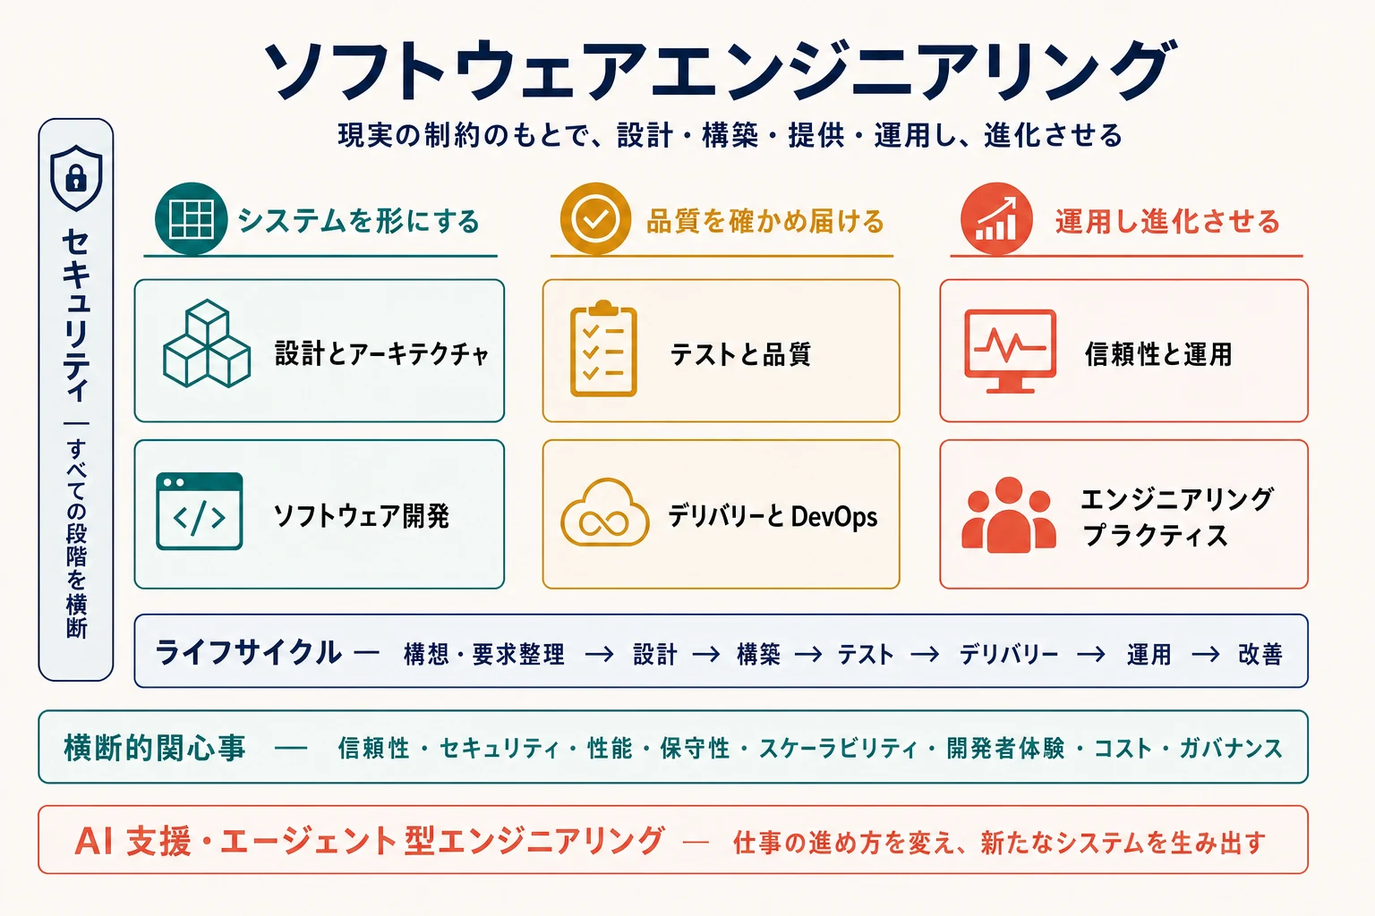
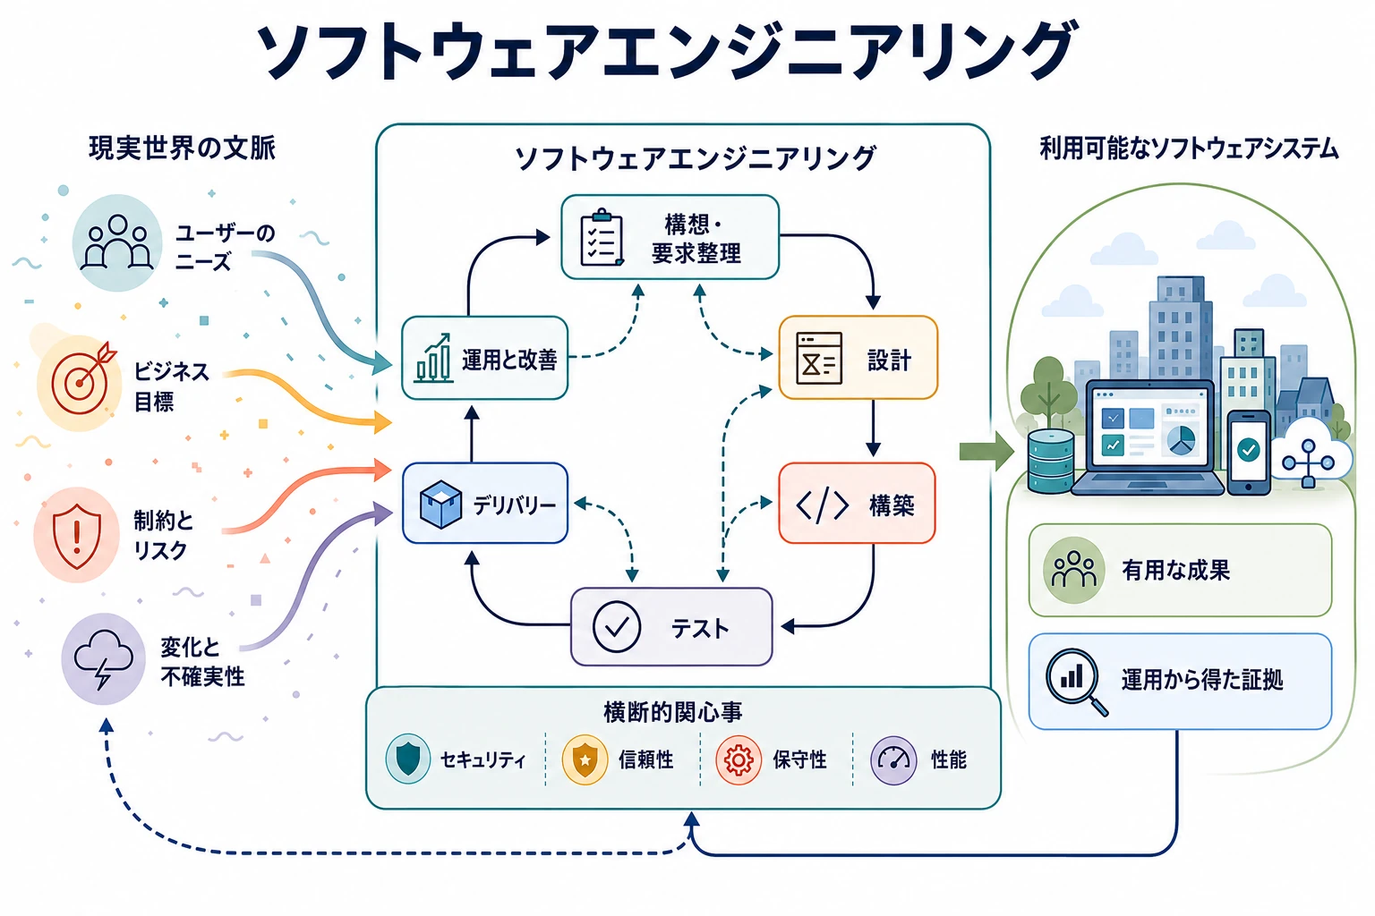
Revise software engineering hub cover

Changed region(s): [[0.0, 0.0, 1.0, 0.9375]]

diff --git a/prompts/docs/swe/imagen.ja/00-software-engineering-landscape.ja.md b/prompts/docs/swe/imagen.ja/00-software-engineering-landscape.ja.md
@@ -1,0 +1,144 @@
+---
+type: image
+path: /docs/swe
+description: 現実世界の文脈に対する反復的なエンジニアリングの応答として、この分野を示すソフトウェアエンジニアリングハブの日本語版カバー画像。
+---
+
+# ソフトウェアエンジニアリングハブの日本語版カバー画像
+
+英語版 `content/docs/swe/software-engineering-landscape.webp` を参照画像として、日本語版の高品質な技術インフォグラフィックを作成してください。英語版の意味構造、要素配置、視覚的階層、配色、アイコン、接続関係を維持し、画像内の英語ラベルだけを指定された日本語へ置き換えます。
+
+## 1. 伝達目標
+
+ソフトウェアエンジニアリングが、不完全で変化し続ける現実世界の文脈を、有用なソフトウェアシステムへ変える営みであることを一目で伝えてください。外部のニーズと制約がエンジニアリングを方向付け、構造化された反復的な活動によってソフトウェアが作られ、利用中のシステムから得られる証拠がエンジニアリングと文脈理解の改善へ戻る関係を示します。
+
+次の三つを視覚的に明確に区別してください。
+
+**外部の力と文脈 → エンジニアリングによる応答 → 利用可能なソフトウェアシステム**
+
+横断的関心事はエンジニアリング全体に適用します。セキュリティは横断的関心事にだけ配置し、重複させないでください。
+
+## 2. 概念モデル
+
+左から右へ、異なる幅を持つ三つの領域を配置してください。
+
+1. **現実世界の文脈** — 意思決定を動機付け、制約する外部環境
+2. **ソフトウェアエンジニアリング** — 接続された活動とフィードバックループを含む最大の中心領域
+3. **利用可能なソフトウェアシステム** — 現実の環境で使われる成果
+
+左から右への強い流れに加え、右側から主にエンジニアリング領域へ戻る、控えめなフィードバック経路を一つ設けてください。その経路は現実世界そのものをエンジニアリングが変更することではなく、実際の利用から得た情報によってニーズ、制約、機会に対する理解を更新することを示します。
+
+## 3. 左側：現実世界の文脈
+
+主ラベルには **現実世界の文脈** を使用し、次の四つの力をコンパクトに配置してください。
+
+- **ユーザーのニーズ**
+- **ビジネス目標**
+- **制約とリスク**
+- **変化と不確実性**
+
+これらはライフサイクルの段階やエンジニアリング活動ではなく、外部環境から到来する力です。**現実世界の文脈** を長方形のコンテナに入れないでください。単純で不規則な形や複数の流入経路を持つ開かれた場として示し、構造化された中央領域へ収束させます。
+
+## 4. ソフトウェアエンジニアリングの中心領域
+
+**ソフトウェアエンジニアリング** を最も大きな中央の囲みとして配置し、内部に次の活動を示してください。
+
+- **構想・要求整理**
+- **設計**
+- **構築**
+- **テスト**
+- **デリバリー**
+- **運用と改善**
+
+活動は認識しやすいライフサイクル順に並べながら、戻り方向の接続、重なり合う関係、または緩やかな曲線構成を使い、一方向のウォーターフォールに見えないようにしてください。要求は見直され、テストは設計と構築へ情報を返し、運用から得られた証拠は改善と要求の再整理につながります。
+
+## 5. 横断的関心事
+
+中央のエンジニアリング領域全体に適用される単一の帯、レール、または包み込む枠を設け、**横断的関心事** と表示してください。含めるラベルは次の四つだけです。
+
+- **セキュリティ**
+- **信頼性**
+- **保守性**
+- **性能**
+
+この帯は、すべてのエンジニアリング活動へ視覚的に重なるか、それらを包み込む必要があります。活動の前後に独立して置かないでください。これはライフサイクルの別段階ではなく、作業全体に継続して適用される観点です。セキュリティをほかの場所へ重複して配置しないでください。
+
+## 6. 出力と成果
+
+右側のラベルには **利用可能なソフトウェアシステム** を使用し、成功バッジではなく、現実の環境で稼働する一つのまとまりあるシステムまたはサービス群を描いてください。次の二つを短い注釈として加えます。
+
+- **有用な成果**
+- **運用から得た証拠**
+
+この二つは同じ **利用可能なソフトウェアシステム** 領域内の注釈として扱い、別々の下流段階や別々の出力システムに見せないでください。**運用から得た証拠** は主に **ソフトウェアエンジニアリング** へ戻し、さらに **現実世界の文脈** へ細く続けることで、実際の利用がニーズ、制約、機会に対する理解を明らかにし、更新できることを示します。
+
+## 7. 構図と視覚的階層
+
+- 1536 × 1024 ピクセル、3:2 の横長キャンバスを使用する
+- 上部に **ソフトウェアエンジニアリング**、その下に図を配置する
+- 中央領域に図のおよそ半分の幅を与え、左右は補助領域として小さくする
+- 三領域を結ぶ強い順方向の流れと、控えめなフィードバック経路を一つ使う
+- 左側は囲みのない不規則で開かれた場、中央は秩序立っているが反復的な活動、右側はコンパクトな稼働システムとして描き分ける
+- ドキュメントの記事幅まで縮小しても主要ラベルを読めるようにする
+- アイコンは補助的な手掛かりにとどめ、関係とグループ化で意味を伝える
+- 十分な余白を確保し、画像内に説明文を入れない
+
+## 8. 画像内で使用する文字
+
+次の日本語だけを一字一句そのまま使用してください。
+
+- **ソフトウェアエンジニアリング**
+- **現実世界の文脈**
+- **ユーザーのニーズ**
+- **ビジネス目標**
+- **制約とリスク**
+- **変化と不確実性**
+- **構想・要求整理**
+- **設計**
+- **構築**
+- **テスト**
+- **デリバリー**
+- **運用と改善**
+- **横断的関心事**
+- **セキュリティ**
+- **信頼性**
+- **保守性**
+- **性能**
+- **利用可能なソフトウェアシステム**
+- **有用な成果**
+- **運用から得た証拠**
+
+タイトルと中央領域では **ソフトウェアエンジニアリング** をそれぞれ一度使用します。それ以外のラベルは一度だけ使用してください。副題、凡例、文章形式のキャプション、英語、指定外の略語は追加しないでください。
+
+## 9. 視覚スタイル
+
+- Notes with AI の技術ドキュメントに適した、クリーンな編集系インフォグラフィック
+- フラットなベクタースタイル。立体感はごく控えめにする
+- 温かみのある白または柔らかな中間色の背景と濃紺の文字
+- 三領域とフィードバックを区別する、抑制されたティール、アンバー、コーラルのアクセント
+- 単純な幾何学形状、均一な線幅、角丸、高いコントラスト
+- 落ち着きがあり、正確で、ベンダーに依存せず、記事幅でも読みやすい構成
+- ブランドや透かしのない高品質ラスター
+
+## 10. 禁止事項
+
+- セキュリティの縦帯、またはセキュリティラベルの重複
+- 一方向のウォーターフォールや番号付き成熟度モデル
+- **現実世界の文脈** を長方形の工程コンテナ、バックログ列、要求工程として描くこと
+- 要求を固定入力として扱い、見直しやフィードバックを示さないこと
+- 提供をエンジニアリングの終点として描くこと
+- AI 支援を独立した段階として追加すること
+- 網羅的な分類、細かな説明文、混雑したアイコングリッド、交差する接続、装飾過多
+- 写真表現、コード画面、製品UI、ベンダーロゴ、光沢3D、未来的AI表現、サイバー風の鍵、ネオンネットワーク、回路基板
+
+## 11. 画像生成時の指示
+
+- 英語版画像を編集対象として扱い、用途分類には `text-localization` を使用する
+- 構図、要素の位置、視覚的階層、配色、アイコン、矢印、余白を維持し、英語テキストだけを日本語へ置き換える
+- 表示ラベル一覧を完全に引用し、指定外の文字を描画しないよう指示する
+- **セキュリティ** は一度だけ、すべての活動へ重なる横断的関心事の帯の中に置く
+- 横断的関心事の帯を独立した段階に見せない
+- **有用な成果** と **運用から得た証拠** を同じ右側領域内の注釈として維持する
+- 日本語に合わせて文字サイズと改行だけを調整できるが、意味構造や相対的な強調度は変えない
+- 1536 × 1024 ピクセル、3:2 横長、大きく読みやすい日本語、十分な余白を指定する
+- 受け入れ前に、日本語の正確さ、文字化け、英語の残存、セキュリティの重複、ウォーターフォールに見えないこと、接続方向、縮小時の可読性を確認する

diff --git a/prompts/docs/swe/imagen/00-software-engineering-landscape.md b/prompts/docs/swe/imagen/00-software-engineering-landscape.md
@@ -1,0 +1,157 @@
+---
+type: image
+path: /docs/swe
+description: Replacement cover image brief for the Software Engineering hub, showing the discipline as an iterative response to real-world context.
+---
+
+# Software Engineering Hub Cover Image Brief
+
+## 1. Communication Goal
+
+Show at a glance that software engineering turns an imperfect, changing real-world context into useful software systems. Present it as a structured, iterative discipline: external needs and constraints inform engineering work, engineering produces and evolves software, and evidence from software in use feeds back into both the context and the work.
+
+Keep three ideas visually distinct:
+
+**external forces and context → engineering response → software systems in use**
+
+Cross-cutting concerns must apply throughout the engineering response. Security belongs only in that cross-cutting layer, resolving its duplication in the current image.
+
+## 2. Conceptual Model
+
+Use a clear left-to-right composition with three unequal regions:
+
+1. **Real-World Context** — the external environment that motivates and constrains decisions.
+2. **Software Engineering** — the largest region, containing connected activities and visible feedback loops.
+3. **Software Systems in Use** — the resulting systems operating in reality.
+
+Use strong forward movement from left to right, plus one restrained feedback path from the right side primarily into the engineering core. A subtle continuation may extend toward the context area to show that observed use can reshape engineers' understanding of needs, constraints, and opportunities—not that engineering changes reality itself. The feedback path should communicate learning and evolution without turning the diagram into a circular process chart.
+
+## 3. Left-Side Framing
+
+Use **Real-World Context** as the primary label. It is broader and more faithful to the page than the alternatives:
+
+- **Needs & Constraints** omits opportunities, uncertainty, and change.
+- **Challenges & Opportunities** underplays hard technical and organizational limits.
+- **Drivers & Constraints** is accurate but sounds more abstract and managerial.
+- **Problem Context** implies that engineering responds only to problems rather than also creating value.
+
+Inside or immediately around this area, show four compact signals:
+
+- **User Needs**
+- **Business Goals**
+- **Constraints & Risk**
+- **Change & Uncertainty**
+
+Treat these as forces arriving from an irregular external environment, not as lifecycle stages or engineering activities. Do not place **Real-World Context** inside a rectangular container. Use an open field with varied but simple shapes or incoming paths that converge toward the structured Software Engineering enclosure.
+
+## 4. Software Engineering Core
+
+Make **Software Engineering** the dominant central enclosure. Within it, arrange these activities as a connected, iterative working system:
+
+- **Frame Requirements**
+- **Design**
+- **Build**
+- **Test**
+- **Deliver**
+- **Operate & Improve**
+
+Arrange the activities in a recognizable lifecycle progression, but use feedback connectors, overlapping relationships, or a gently curved composition so that it cannot be mistaken for a one-way waterfall. Requirements can be revisited; testing informs design and build; operation supplies evidence for improvement and reframing. The activities should read as distinct but overlapping responsibilities rather than rigid handoffs.
+
+## 5. Cross-Cutting Concerns
+
+Place a single spanning band, rail, or surrounding frame across the entire Software Engineering core. Label it **Cross-Cutting Concerns** and include only these representative concerns:
+
+- **Security**
+- **Reliability**
+- **Maintainability**
+- **Performance**
+
+These four engineering qualities are grounded in the hub introduction and cross-cutting-concern section while remaining readable at cover-image size. Cost and governance remain important in the article but should not appear in this compact cover diagram. Do not place Security anywhere else. Do not depict observability as a separate universal concern; on this page it is principally a mechanism supporting operations, reliability, and feedback.
+
+The band must visually overlay or embrace all engineering activities, not sit before or after them. It is a persistent lens on the work, not another lifecycle stage.
+
+## 6. Outputs / Outcomes
+
+Use **Software Systems in Use** as the right-side label. Depict a small, coherent system or service landscape rather than a generic success badge. Add two concise supporting labels:
+
+- **Useful Outcomes**
+- **Operational Evidence**
+
+The first indicates delivered value without promising business success; the second anchors the page's emphasis on production behavior, credible feedback, and continued evolution. Route **Operational Evidence** primarily back into **Software Engineering**, with a subtle continuation toward **Real-World Context** to indicate that observed use can reveal or reshape understanding of user needs, constraints, and opportunities.
+
+Treat **Useful Outcomes** and **Operational Evidence** as annotations within the same **Software Systems in Use** region, not as separate downstream stages or separate output systems.
+
+## 7. Composition & Visual Hierarchy
+
+- Use a 3:2 landscape canvas at 1536 × 1024 pixels, matching the current cover-image proportions.
+- Place the title **SOFTWARE ENGINEERING** at the top with the diagram below it.
+- Give the center roughly half the diagram width; the context and outcome regions should be smaller supporting areas.
+- Use one strong forward flow across the three regions and one quieter feedback return path.
+- Leave the external context visually open and unboxed. Differentiate this irregular field of incoming forces from the orderly but iterative engineering core and the compact deployed system on the right.
+- Make the central activity labels and three region labels readable at documentation-column width.
+- Use icons only as secondary cues. Relationships and grouping must carry the meaning.
+- Preserve generous whitespace and avoid explanatory sentences inside the image.
+
+## 8. Exact Visible Labels
+
+Use only the following visible text:
+
+- **SOFTWARE ENGINEERING**
+- **Real-World Context**
+- **User Needs**
+- **Business Goals**
+- **Constraints & Risk**
+- **Change & Uncertainty**
+- **Software Engineering**
+- **Frame Requirements**
+- **Design**
+- **Build**
+- **Test**
+- **Deliver**
+- **Operate & Improve**
+- **Cross-Cutting Concerns**
+- **Security**
+- **Reliability**
+- **Maintainability**
+- **Performance**
+- **Software Systems in Use**
+- **Useful Outcomes**
+- **Operational Evidence**
+
+Do not add a subtitle, legend, prose caption, or unlabeled acronym.
+
+## 9. Visual Style
+
+- Clean editorial infographic for the Notes with AI technical documentation site
+- Flat vector-style illustration with at most very light dimensional depth
+- Warm white or soft neutral background with dark navy typography
+- Restrained teal, amber, and coral accents, using color to distinguish the three regions and feedback
+- Simple geometric forms, consistent line weight, rounded corners, and accessible contrast
+- Calm, precise, vendor-neutral, and readable when reduced to article width
+- Polished raster output with no branding or watermark
+
+## 10. Avoid
+
+- A vertical Security bar or any duplicate Security label
+- A rigid left-to-right waterfall or numbered maturity sequence
+- Enclosing Real-World Context in a rectangular process container or making it resemble an engineering activity, backlog column, or requirements phase
+- Treating requirements as fixed input with no feedback or revision
+- Implying that delivery is the end of engineering work
+- Presenting AI assistance as a separate stage; it is discussed by the page but is not necessary to this cover's primary model
+- Exhaustive taxonomies, tiny explanatory text, crowded icon grids, crossed connectors, or decorative complexity
+- Photorealism, code screenshots, product interfaces, vendor logos, glossy 3D, futuristic AI imagery, cyber locks, neon networks, or circuit-board motifs
+
+## 11. Image-Generation Prompt Guidance
+
+When converting this brief into a production prompt:
+
+- Classify it as `infographic-diagram` and identify it as a documentation hub cover.
+- Preserve the semantic order and relative hierarchy of the three regions exactly.
+- Quote the complete visible-label list verbatim and instruct the generator to render no other text.
+- State explicitly that **Security appears once only**, inside the cross-cutting band spanning the engineering activities.
+- Require visible iteration within the engineering core and a restrained evidence feedback path from systems in use; forward arrows alone are insufficient.
+- Preserve the contrast between an irregular external context and a structured engineering response.
+- Arrange the activities in a recognizable lifecycle progression while using feedback connectors, overlaps, or a gently curved composition to prevent a one-way-waterfall reading.
+- Specify 1536 × 1024 pixels, 3:2 landscape, high legibility, generous whitespace, and large labels.
+- Treat every listed visual exclusion as a hard negative constraint.
+- Validate the generated result for exact text, Security duplication, waterfall implications, connector direction, and small-size readability before accepting it.

diff --git a/content/docs/swe/_index.ja.md b/content/docs/swe/_index.ja.md
@@ -9,9 +9,9 @@ next: "/docs/swe/software-development"
 
 このハブでは、この分野を複数の視点から案内します。ドメインは主要な知識領域を示し、ライフサイクルは構想・要求整理から進化し続ける本番システムまでの活動をたどり、横断的関心事はすべての段階に影響する品質を示します。これらの視点は意図的に重なっています。各トピックはドキュメントツリー内に一つの正規の置き場所を持ちますが、複数の概念的な経路からたどることができます。
 
-![ソフトウェアエンジニアリングを、システムを形にする、品質を確かめ届ける、運用し進化させるという三つの領域に整理し、セキュリティ、ライフサイクル、横断的な関心事、AI 支援・エージェント型エンジニアリングとの関係を示す全体図](software-engineering-landscape.ja.webp "ソフトウェアエンジニアリングの全体像")
+![ユーザーのニーズ、ビジネス目標、制約とリスク、変化と不確実性という現実世界の文脈が、反復的なソフトウェアエンジニアリングへ流れ、横断的関心事が活動全体に適用され、利用可能なソフトウェアシステムの「運用から得た証拠」がエンジニアリングへ戻る関係](software-engineering-landscape.ja.webp "現実世界の文脈から利用可能なソフトウェアシステムまで")
 
-三つの列は、この分野の中心的な活動を、システムを形にすること、品質を確かめて変更を届けること、本番環境で運用し進化させることに整理しています。これらは独立した工程ではありません。セキュリティはすべての活動を横断し、ライフサイクルは繰り返しのフィードバックを生み出します。信頼性、保守性、コストなどの横断的関心事は全体の判断に影響し、AI 支援・エージェント型エンジニアリングは、仕事の進め方とエンジニアリング対象となるシステムの両方を変えます。
+ソフトウェアエンジニアリングは、ユーザーのニーズ、ビジネス目標、制約とリスク、変化と不確実性を含む、不完全で変化し続ける現実世界の文脈に応えます。構想・要求整理、設計、構築、テスト、デリバリー、運用と改善は認識しやすいライフサイクルを形成しますが、一方向の工程ではなく、活動間をフィードバックが結びます。セキュリティ、信頼性、保守性、性能は、全体の意思決定に影響する横断的関心事です。ソフトウェアが利用可能になると、運用から得た証拠がエンジニアリングへ戻り、文脈に対する理解を更新しながら、継続的な改善と適応を支えます。
 
 ## どこから始めるか
 

diff --git a/content/docs/swe/_index.md b/content/docs/swe/_index.md
@@ -9,9 +9,9 @@ Software engineering is the discipline of designing, building, delivering, opera
 
 This hub presents several ways to navigate that discipline. The domains below describe its major bodies of knowledge; the lifecycle follows work from framing requirements to evolving a production system; and cross-cutting concerns show qualities that influence every stage. These views overlap by design. A topic has one canonical home in the documentation tree but may be approached from several conceptual paths.
 
-![Software engineering landscape organized into building the system, proving and delivering it, and running and evolving it, with security, lifecycle, cross-cutting concerns, and AI-assisted engineering spanning the field](software-engineering-landscape.webp "Software Engineering landscape")
+![Real-world context—including user needs, business goals, constraints, risk, change, and uncertainty—flows into an iterative software engineering lifecycle; cross-cutting concerns span the work, and operational evidence from software systems in use feeds back into engineering](software-engineering-landscape.webp "Software engineering from real-world context to systems in use")
 
-The three columns group the field by its central work: shaping the system, proving quality and delivering change, and running and evolving software in production. They are not isolated phases. Security spans every activity; the lifecycle supplies a recurring flow of feedback; cross-cutting concerns such as reliability, maintainability, and cost influence decisions throughout; and AI-assisted and agentic engineering changes both how the work is performed and what kinds of systems must be engineered.
+Software engineering responds to an imperfect and changing real-world context: user needs, business goals, constraints, risk, and uncertainty. Requirements framing, design, building, testing, delivery, and operation form a recognizable lifecycle, but feedback connects the activities rather than separating them into a one-way sequence. Security, reliability, maintainability, and performance shape decisions throughout. Once software is in use, operational evidence feeds back into engineering and can refine the understanding of the context, supporting continued improvement and adaptation.
 
 ## Where to start
 
